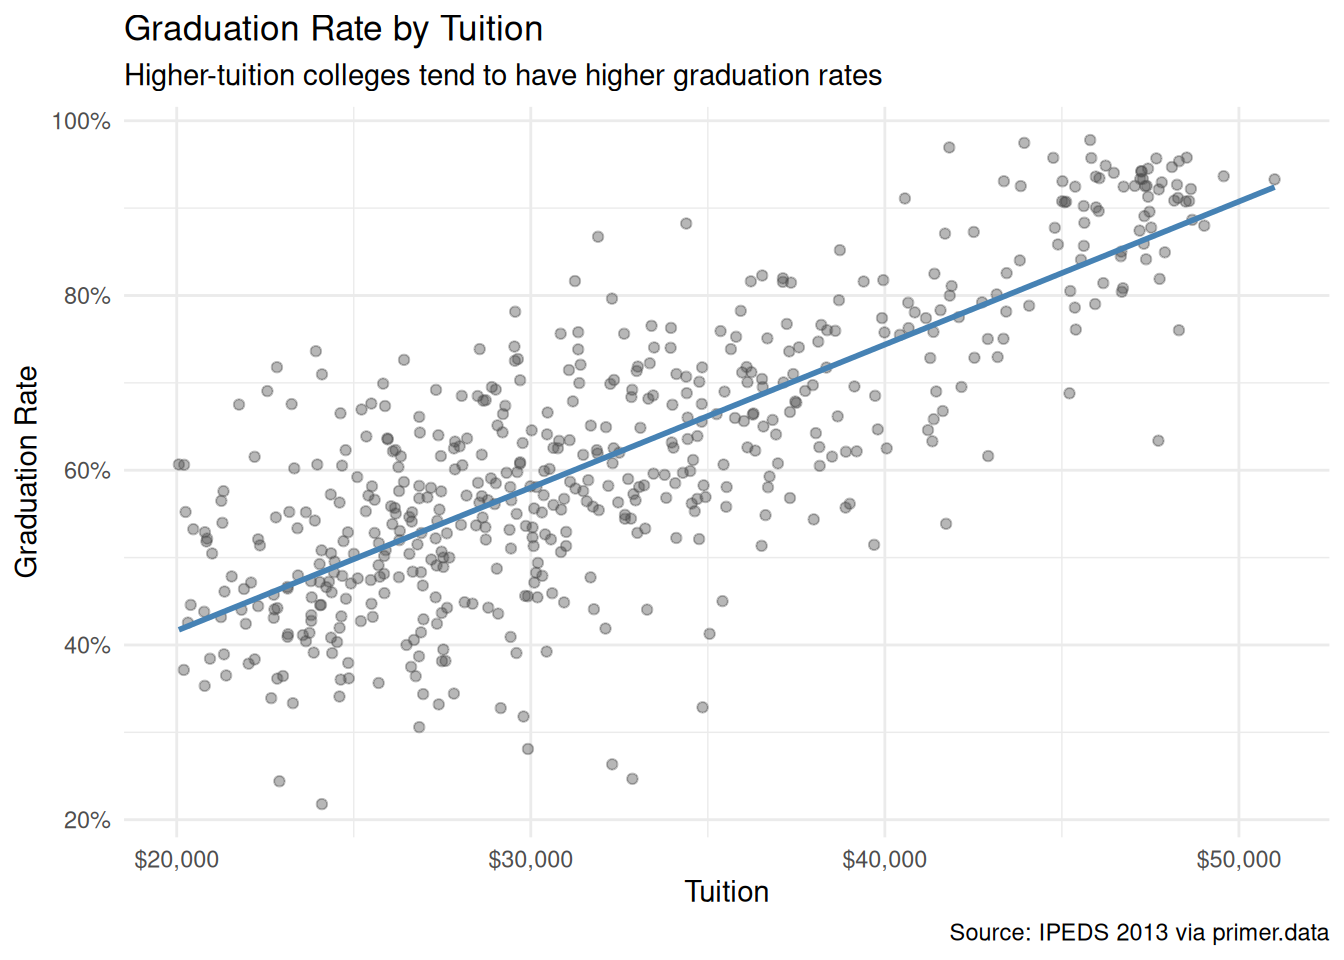
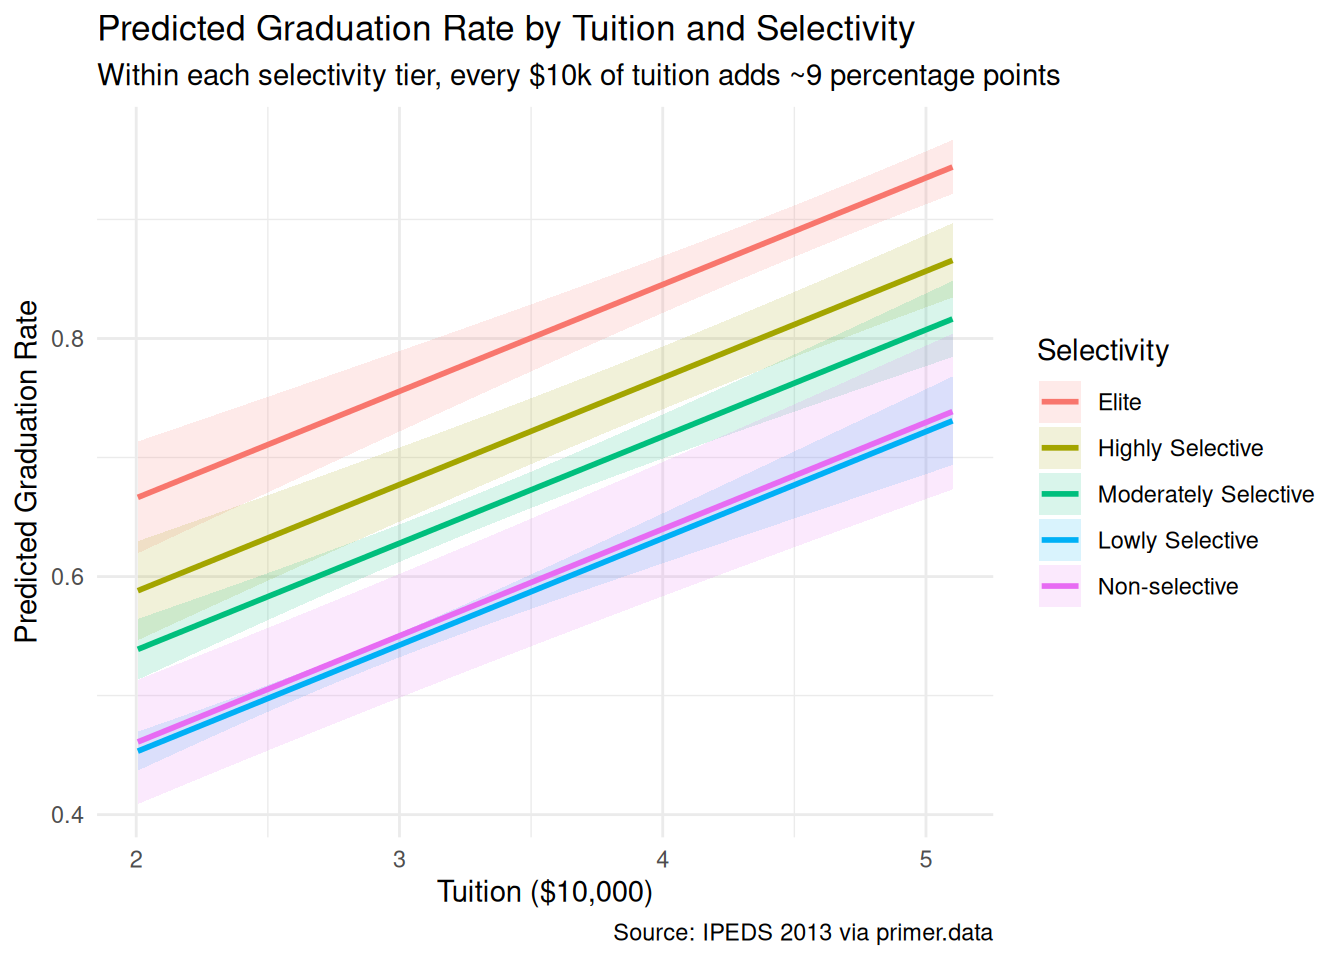
Built site for gh-pages

diff --git a/analysis.html b/analysis.html
@@ -80,11 +80,7 @@ ul.task-list li input[type="checkbox"] {
 </header>
 
 
-<p>Where students go to college and what they pay for it varies enormously, and so does the likelihood that they will finish. We help today’s students choose by examining how graduation rate varies with tuition and selectivity, using 2013 IPEDS data on roughly 900 US four-year colleges and universities — the most recent reliable national snapshot we have. We model graduation rate as a linear function of tuition and selectivity tier, using a normal probability distribution and an identity link function. However, a potential weakness is the assumption of stability, as the relationship between tuition and graduation rates may have changed over the thirteen-year gap between 2013 and 2026.</p>
 <div class="cell">
-<div class="cell-output cell-output-stderr">
-<pre><code>`geom_smooth()` using formula = 'y ~ x'</code></pre>
-</div>
 <div class="cell-output-display">
 <div>
 <figure class="figure">
@@ -93,36 +89,7 @@ ul.task-list li input[type="checkbox"] {
 </div>
 </div>
 </div>
-<div class="cell">
-<div class="cell-output cell-output-stdout">
-<pre><code>parsnip model object
-
-
-Call:
-stats::lm(formula = grad_rate ~ tuition + selectivity, data = data)
-
-Coefficients:
-                    (Intercept)                          tuition  
-                        0.48662                          0.08968  
-    selectivityHighly Selective  selectivityModerately Selective  
-                       -0.07840                         -0.12765  
-     selectivityLowly Selective         selectivityNon-selective  
-                       -0.21320                         -0.20546  </code></pre>
-</div>
-</div>
-<div class="cell">
-<div class="cell-output cell-output-stdout">
-<pre><code># A tibble: 6 × 7
-  term                  estimate std.error statistic  p.value conf.low conf.high
-  &lt;chr&gt;                    &lt;dbl&gt;     &lt;dbl&gt;     &lt;dbl&gt;    &lt;dbl&gt;    &lt;dbl&gt;     &lt;dbl&gt;
-1 (Intercept)             0.487    0.0390      12.5  1.70e-31   0.410     0.563 
-2 tuition                 0.0897   0.00806     11.1  4.97e-26   0.0738    0.106 
-3 selectivityHighly Se…  -0.0784   0.0180      -4.35 1.66e- 5  -0.114    -0.0430
-4 selectivityModeratel…  -0.128    0.0172      -7.44 4.16e-13  -0.161    -0.0939
-5 selectivityLowly Sel…  -0.213    0.0190     -11.2  2.19e-26  -0.251    -0.176 
-6 selectivityNon-selec…  -0.205    0.0331      -6.20 1.12e- 9  -0.271    -0.140 </code></pre>
-</div>
-</div>
+<p>Where students go to college and what they pay for it varies enormously, and so does the likelihood that they will finish. We help today’s students choose by examining how graduation rate varies with tuition and selectivity, using 2013 IPEDS data on roughly 900 US four-year colleges and universities — the most recent reliable national snapshot we have. The 13-year gap between our data and the question is a real concern: tuition has risen much faster than inflation since 2013, and the price/graduation relationship may have shifted. We model graduation rate as a normally distributed variable which is a linear function of tuition and selectivity. We estimate that within a given selectivity tier, each $10,000 of tuition is associated with about 9 percentage points higher graduation rate, with a 95% confidence interval of 7 to 11 percentage points; Elite colleges have graduation rates about 20 percentage points higher than Lowly Selective ones at comparable tuition.</p>
 
 </main>
 <!-- /main column -->

diff --git a/index.html b/index.html
@@ -80,11 +80,7 @@ ul.task-list li input[type="checkbox"] {
 </header>
 
 
-<p>Where students go to college and what they pay for it varies enormously, and so does the likelihood that they will finish. We help today’s students choose by examining how graduation rate varies with tuition and selectivity, using 2013 IPEDS data on roughly 900 US four-year colleges and universities — the most recent reliable national snapshot we have. We model graduation rate as a linear function of tuition and selectivity tier, using a normal probability distribution and an identity link function. However, a potential weakness is the assumption of stability, as the relationship between tuition and graduation rates may have changed over the thirteen-year gap between 2013 and 2026.</p>
 <div class="cell">
-<div class="cell-output cell-output-stderr">
-<pre><code>`geom_smooth()` using formula = 'y ~ x'</code></pre>
-</div>
 <div class="cell-output-display">
 <div>
 <figure class="figure">
@@ -93,36 +89,7 @@ ul.task-list li input[type="checkbox"] {
 </div>
 </div>
 </div>
-<div class="cell">
-<div class="cell-output cell-output-stdout">
-<pre><code>parsnip model object
-
-
-Call:
-stats::lm(formula = grad_rate ~ tuition + selectivity, data = data)
-
-Coefficients:
-                    (Intercept)                          tuition  
-                        0.48662                          0.08968  
-    selectivityHighly Selective  selectivityModerately Selective  
-                       -0.07840                         -0.12765  
-     selectivityLowly Selective         selectivityNon-selective  
-                       -0.21320                         -0.20546  </code></pre>
-</div>
-</div>
-<div class="cell">
-<div class="cell-output cell-output-stdout">
-<pre><code># A tibble: 6 × 7
-  term                  estimate std.error statistic  p.value conf.low conf.high
-  &lt;chr&gt;                    &lt;dbl&gt;     &lt;dbl&gt;     &lt;dbl&gt;    &lt;dbl&gt;    &lt;dbl&gt;     &lt;dbl&gt;
-1 (Intercept)             0.487    0.0390      12.5  1.70e-31   0.410     0.563 
-2 tuition                 0.0897   0.00806     11.1  4.97e-26   0.0738    0.106 
-3 selectivityHighly Se…  -0.0784   0.0180      -4.35 1.66e- 5  -0.114    -0.0430
-4 selectivityModeratel…  -0.128    0.0172      -7.44 4.16e-13  -0.161    -0.0939
-5 selectivityLowly Sel…  -0.213    0.0190     -11.2  2.19e-26  -0.251    -0.176 
-6 selectivityNon-selec…  -0.205    0.0331      -6.20 1.12e- 9  -0.271    -0.140 </code></pre>
-</div>
-</div>
+<p>Where students go to college and what they pay for it varies enormously, and so does the likelihood that they will finish. We help today’s students choose by examining how graduation rate varies with tuition and selectivity, using 2013 IPEDS data on roughly 900 US four-year colleges and universities — the most recent reliable national snapshot we have. The 13-year gap between our data and the question is a real concern: tuition has risen much faster than inflation since 2013, and the price/graduation relationship may have shifted. We model graduation rate as a normally distributed variable which is a linear function of tuition and selectivity. We estimate that within a given selectivity tier, each $10,000 of tuition is associated with about 9 percentage points higher graduation rate, with a 95% confidence interval of 7 to 11 percentage points; Elite colleges have graduation rates about 20 percentage points higher than Lowly Selective ones at comparable tuition.</p>
 
 </main>
 <!-- /main column -->